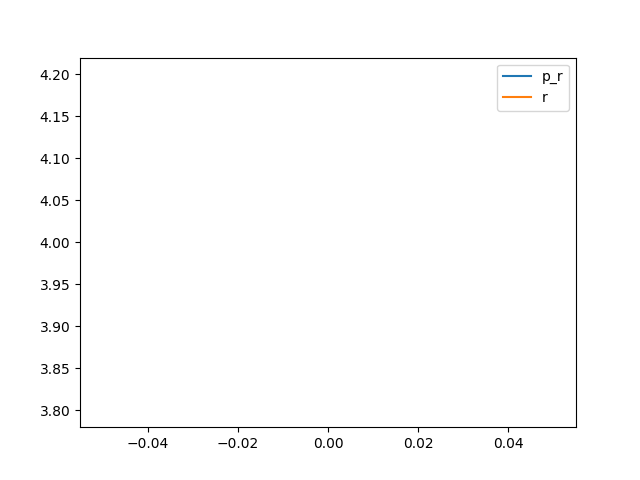
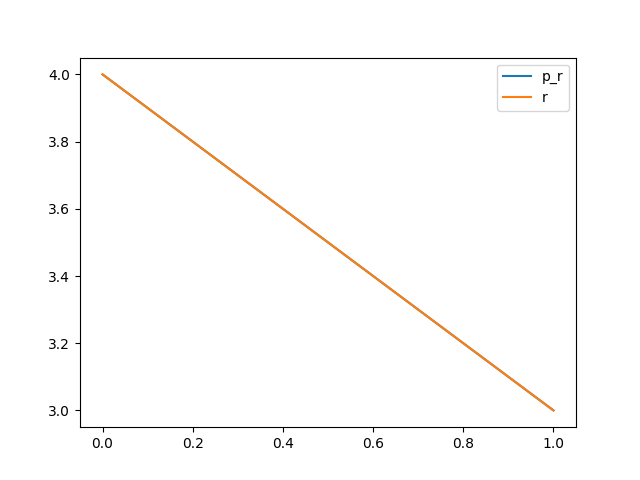
0x0001

diff --git a/benchmark.md b/benchmark.md
@@ -16,3 +16,13 @@ xychart-beta
 ```
  avg_p_s=96.0 avg_s=192.0 avg_pr=4.0 avg_r=4.0
 
+Synthesising 0x0001 pexact:152 r=3 exact:152 r=3
+
+```mermaid
+xychart-beta
+    x-axis [0, 1]
+    line [96, 152]
+    line [192, 152]
+```
+ avg_p_s=124.0 avg_s=172.0 avg_pr=3.5 avg_r=3.5
+
